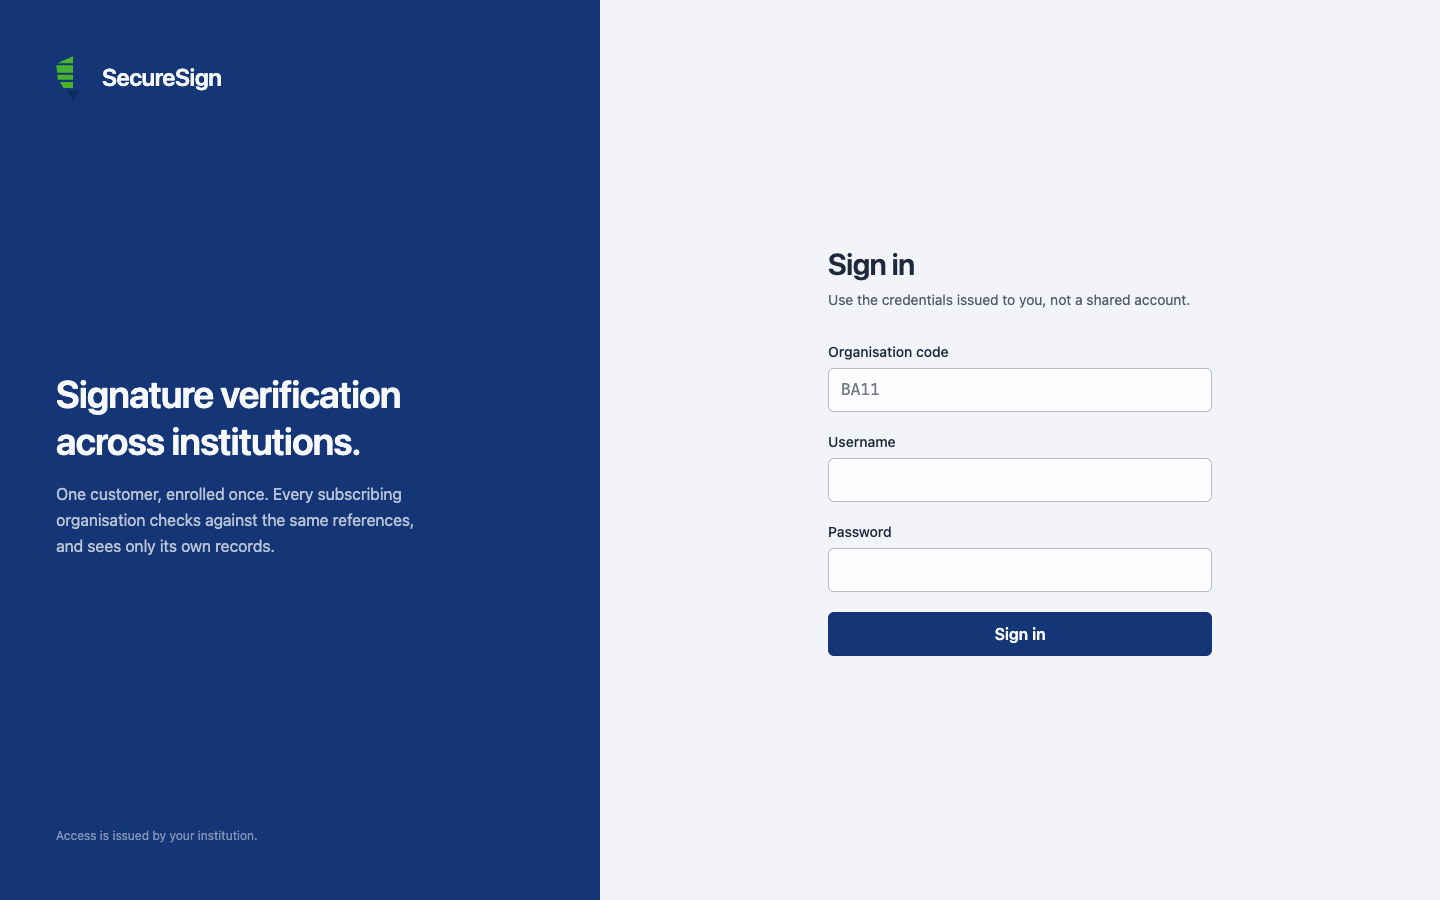
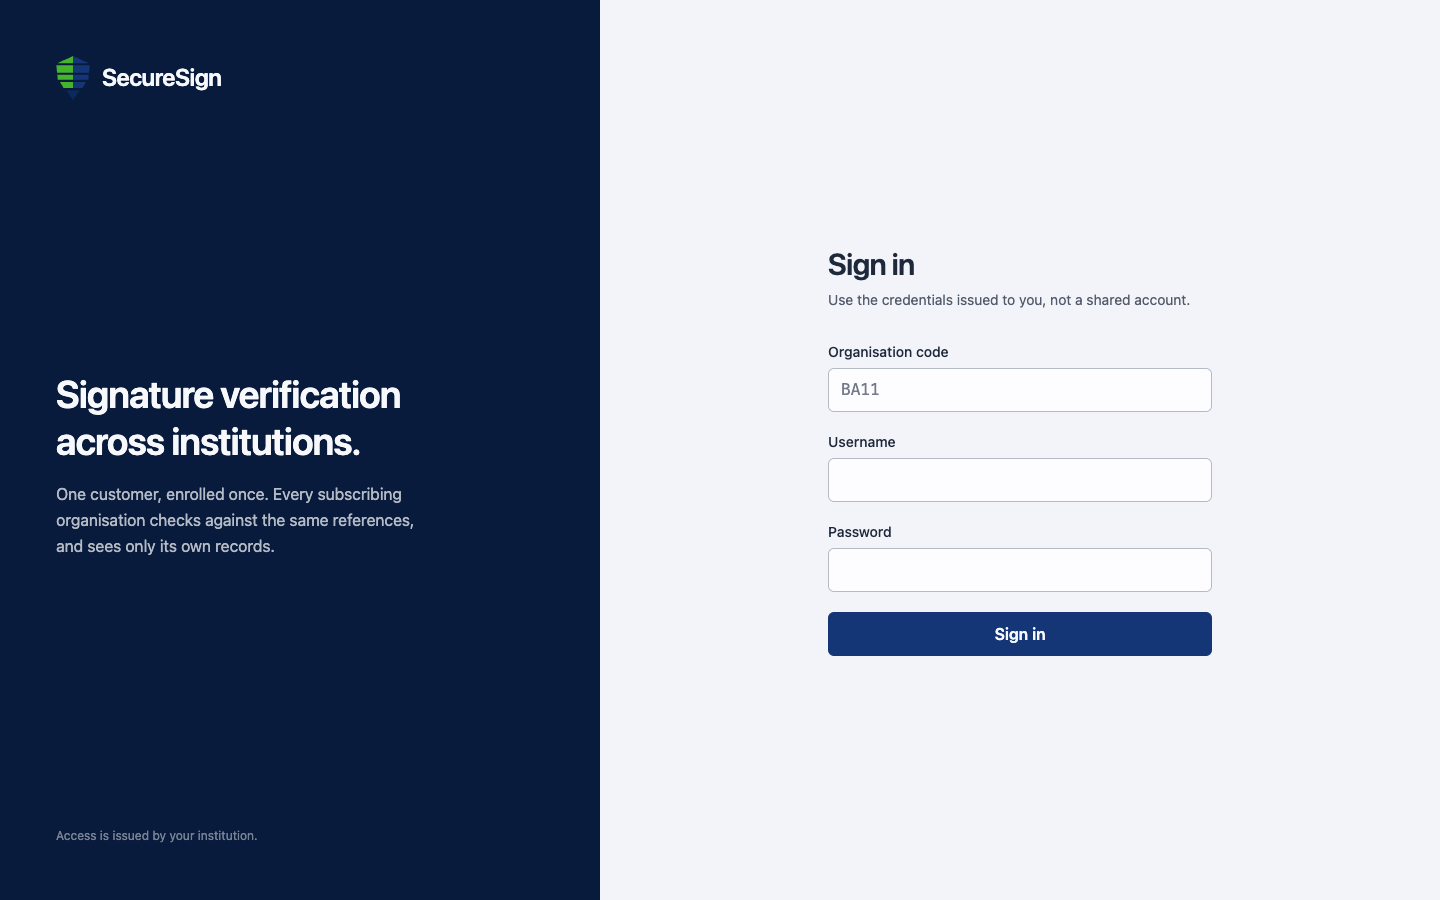
fix: darken the navy ground behind the brand mark

diff --git a/frontend/src/style.css b/frontend/src/style.css
@@ -9,6 +9,9 @@
   --color-navy: oklch(0.349 0.117 262);
   --color-navy-deep: oklch(0.296 0.104 262);
   --color-navy-soft: oklch(0.45 0.095 262);
+  /* The ground the shield mark sits on. Darker than both of the mark's own navies, so
+     the mark keeps its exact brand colours and still reads against it. */
+  --color-navy-ground: oklch(0.23 0.07 262);
   --color-brand-green: oklch(0.678 0.196 140);
   --color-brand-green-deep: oklch(0.58 0.17 141);
 
@@ -103,7 +106,6 @@ html {
   scrollbar-color: var(--color-border-strong) var(--color-canvas);
   caret-color: var(--color-navy);
 }
-
 /* iOS zooms the page in when a field with text under 16px takes focus, and does not zoom
    back out afterwards. Hold fields at 16px wherever a touch keyboard is likely; the
    alternative, a maximum-scale on the viewport, stops the zoom by taking pinch-zoom away

diff --git a/frontend/src/views/LoginView.vue b/frontend/src/views/LoginView.vue
@@ -32,7 +32,7 @@ async function handleSubmit() {
   <div class="grid min-h-screen grid-rows-[auto_1fr] lg:grid-cols-[5fr_7fr] lg:grid-rows-1">
     <!-- The registry identifies itself before asking who you are. On a narrow screen it
          collapses to a band rather than stacking a full panel above the form. -->
-    <aside class="flex flex-col gap-16 bg-navy px-6 py-6 text-ink-inverse sm:px-10 lg:justify-between lg:px-14 lg:py-14">
+    <aside class="flex flex-col gap-16 bg-navy-ground px-6 py-6 text-ink-inverse sm:px-10 lg:justify-between lg:px-14 lg:py-14">
       <div class="flex items-center gap-3">
         <BrandMark :size="34" title="SecureSign" class="shrink-0" />
         <span class="text-xl font-semibold tracking-tight">SecureSign</span>

diff --git a/frontend/src/components/AppShell.vue b/frontend/src/components/AppShell.vue
@@ -54,7 +54,7 @@ async function handleLogout() {
   <div v-else class="min-h-screen w-full lg:grid lg:grid-cols-[15rem_minmax(0,1fr)]">
     <!-- A persistent rail, so content keeps the whole remaining width instead of sitting
          in a centred column with the screen empty on either side of it. -->
-    <aside class="flex flex-col bg-navy text-ink-inverse lg:sticky lg:top-0 lg:h-screen">
+    <aside class="flex flex-col bg-navy-ground text-ink-inverse lg:sticky lg:top-0 lg:h-screen">
       <div class="flex items-center justify-between gap-3 px-4 py-3 lg:px-5 lg:py-4">
         <span class="flex items-center gap-2.5">
           <BrandMark :size="20" class="shrink-0" />
